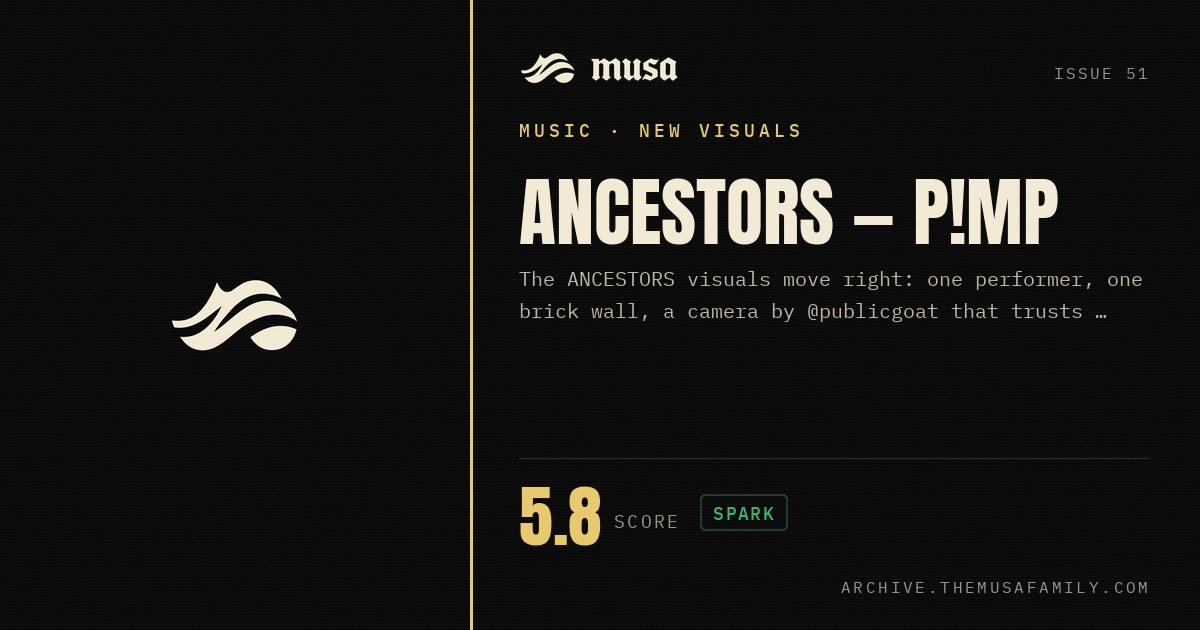
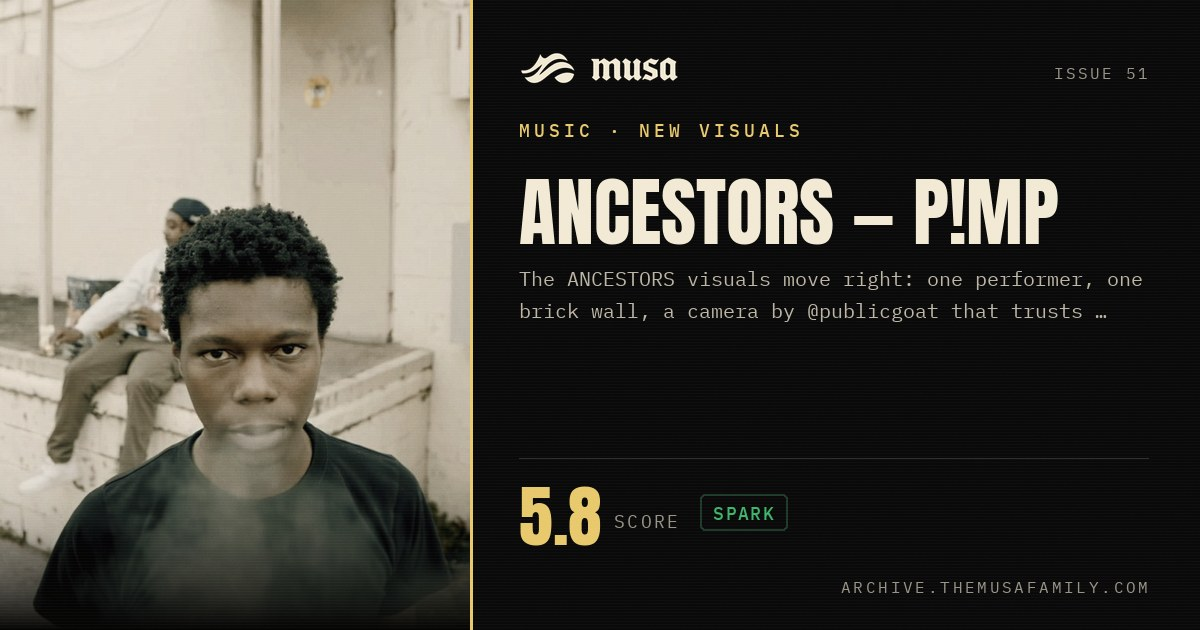
art: ancestors-p-mp

diff --git a/i/ancestors-p-mp/index.html b/i/ancestors-p-mp/index.html
@@ -131,7 +131,7 @@ footer b{font-family:var(--mono);font-size:9px;color:#b8b09c;letter-spacing:.2em
 </header>
 <div class="eyebrow">ISSUE 51 &nbsp;·&nbsp; <span class="a">AUG 3 2026</span> &nbsp;·&nbsp; MUSIC · NEW VISUALS</div>
 <h1>ANCESTORS — P!MP</h1>
-<figure class="art"><img src="https://archive.themusafamily.com/img/musa-mark.png" alt="ANCESTORS — P!MP" loading="lazy" style="height:320px;object-fit:contain;background:#0a0a0a" onerror="this.onerror=null;this.src='https://archive.themusafamily.com/img/musa-mark.png';this.style.objectFit='contain';this.style.background='#0a0a0a'"></figure>
+<figure class="art"><img src="https://archive.themusafamily.com/img/entries/ancestors-p-mp.jpg" alt="ANCESTORS — P!MP" loading="lazy" onerror="this.onerror=null;this.src='https://archive.themusafamily.com/img/musa-mark.png';this.style.objectFit='contain';this.style.background='#0a0a0a'"></figure>
 <div class="read">The ANCESTORS visuals move right: one performer, one brick wall, a camera by @publicgoat that trusts the face to carry the frame, and the full video is up on YouTube. P!MP is ffawty&#x27;s blood brother, and the freestyles stacking up on his Instagram are the better evidence right now — loose, quick, and sharper than the release schedule suggests. What exists so far is one strong video and a feed; the streaming footprint is still forming. Come back when there is a body of work to score.</div>
 <div class="rail">
   <span class="sc">5.8<small>SCORE</small></span>
